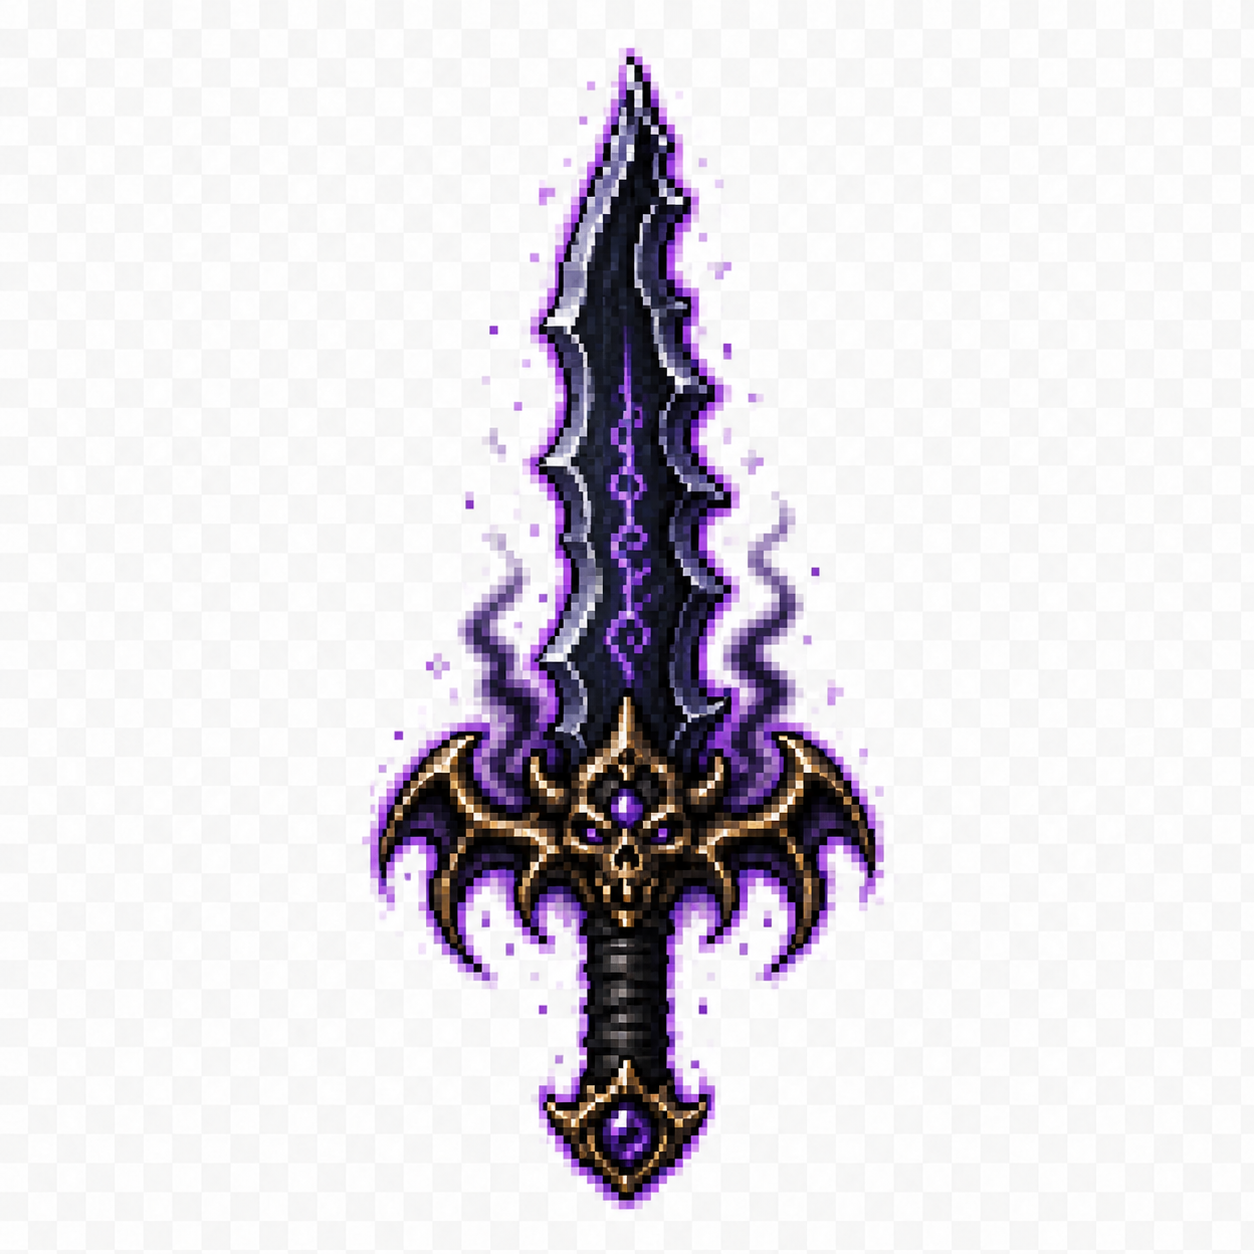
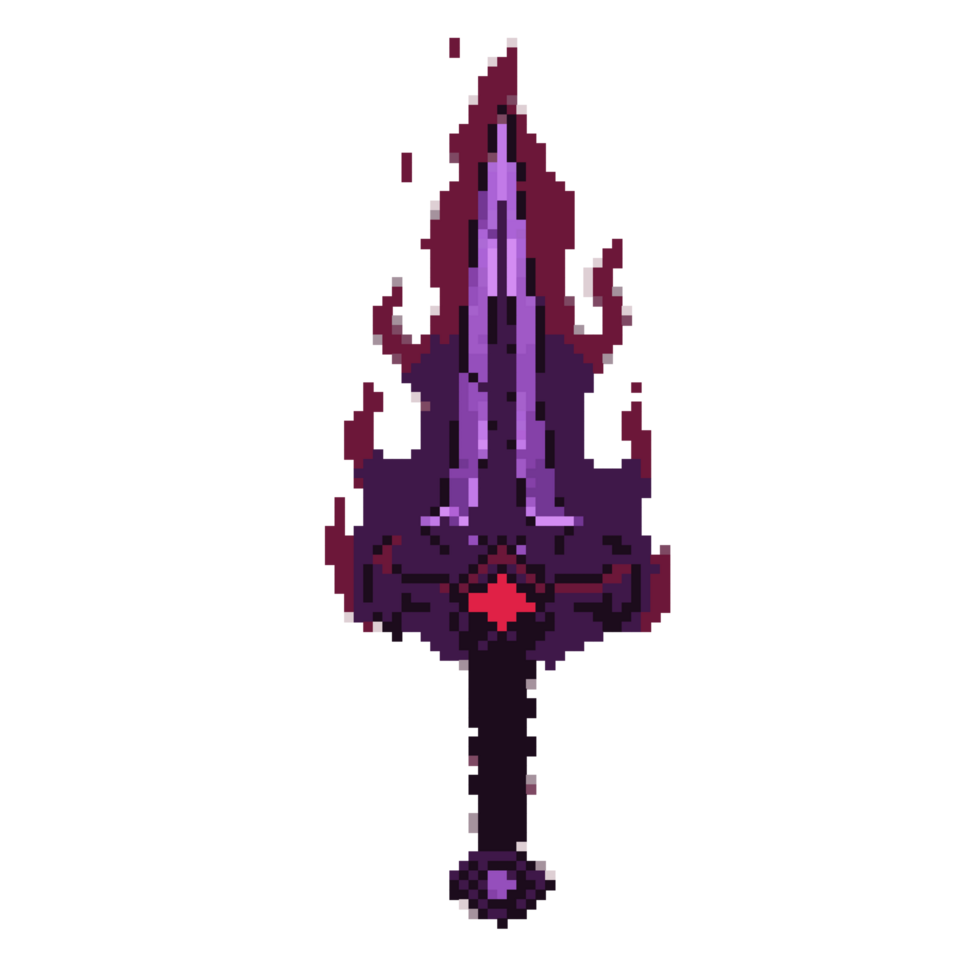
FIX: fixed the images and shop screen

Changed region(s): [[0.2755, 0.0306, 0.7041, 0.9796]]

diff --git a/core/src/main/java/com/ashenthrone/screens/ShopScreen.java b/core/src/main/java/com/ashenthrone/screens/ShopScreen.java
@@ -69,6 +69,14 @@ public class ShopScreen extends BaseScreen {
 
     private static final float BUY_W = CARD_W - 60f;
     private static final float BUY_H = 50f;
+    private static final float BUY_Y_OFFSET = 28f;
+
+    private static final float ICON_FRAME_W = 150f;
+    private static final float ICON_FRAME_H = 150f;
+    private static final float ICON_PADDING = 10f;
+    private static final float ICON_TOP_PADDING = 40f;
+    private static final float TITLE_GAP = 22f;
+    private static final float LINE_GAP = 27f;
 
     private static final float BACK_W = 160f;
     private static final float BACK_H = 44f;
@@ -252,36 +260,36 @@ public class ShopScreen extends BaseScreen {
             batch.setColor(Color.WHITE);
 
             // Icon — uses items/item_<id>.png if present, falls back to tinted block.
-            float iconW = 180f;
-            float iconH = 180f;
-            float iconX = x + (CARD_W - iconW) / 2f;
-            float iconY = y + CARD_H - iconH - 50f;
+            float iconX = x + (CARD_W - ICON_FRAME_W) / 2f;
+            float iconY = y + CARD_H - ICON_FRAME_H - ICON_TOP_PADDING;
             batch.setColor(new Color(0.25f, 0.20f, 0.15f, 1f));
-            batch.draw(pixel, iconX - 3, iconY - 3, iconW + 6, iconH + 6);
+            batch.draw(pixel, iconX - 3, iconY - 3, ICON_FRAME_W + 6, ICON_FRAME_H + 6);
             if (itemIcons[i] != null) {
                 batch.setColor(Color.WHITE);
-                batch.draw(itemIcons[i], iconX, iconY, iconW, iconH);
+                drawIconFitted(itemIcons[i], iconX, iconY, ICON_FRAME_W, ICON_FRAME_H, ICON_PADDING);
             } else {
                 batch.setColor(item.tint);
-                batch.draw(pixel, iconX, iconY, iconW, iconH);
+                batch.draw(pixel, iconX + ICON_PADDING, iconY + ICON_PADDING,
+                        ICON_FRAME_W - ICON_PADDING * 2f, ICON_FRAME_H - ICON_PADDING * 2f);
                 batch.setColor(Color.WHITE);
             }
 
             // Title + effect.
             itemFont.setColor(new Color(1f, 0.95f, 0.75f, 1f));
             layout.setText(itemFont, item.name);
-            itemFont.draw(batch, layout, x + (CARD_W - layout.width) / 2f, iconY - 20f);
+            itemFont.draw(batch, layout, x + (CARD_W - layout.width) / 2f, iconY - TITLE_GAP);
 
             bodyFont.setColor(new Color(0.85f, 0.80f, 0.70f, 1f));
             layout.setText(bodyFont, item.effect);
-            bodyFont.draw(batch, layout, x + (CARD_W - layout.width) / 2f, iconY - 50f);
+            bodyFont.draw(batch, layout, x + (CARD_W - layout.width) / 2f, iconY - TITLE_GAP - LINE_GAP);
 
             // Price line.
             bodyFont.setColor(affordable ? new Color(0.95f, 0.85f, 0.3f, 1f)
                                          : new Color(0.7f, 0.40f, 0.40f, 1f));
             String priceText = item.cost + " gold";
             layout.setText(bodyFont, priceText);
-            bodyFont.draw(batch, layout, x + (CARD_W - layout.width) / 2f, iconY - 80f);
+            bodyFont.draw(batch, layout, x + (CARD_W - layout.width) / 2f,
+                    iconY - TITLE_GAP - LINE_GAP * 2f);
 
             // Buy button.
             float[] r = buyRect(i);
@@ -333,8 +341,20 @@ public class ShopScreen extends BaseScreen {
 
     private float[] buyRect(int i) {
         float x = cardX(i) + (CARD_W - BUY_W) / 2f;
-        float y = CARDS_Y + 30f;
+        float y = CARDS_Y + BUY_Y_OFFSET;
         return new float[] { x, y, BUY_W, BUY_H };
+    }
+
+    private void drawIconFitted(Texture texture, float frameX, float frameY,
+                                float frameW, float frameH, float padding) {
+        float maxW = frameW - padding * 2f;
+        float maxH = frameH - padding * 2f;
+        float scale = Math.min(maxW / texture.getWidth(), maxH / texture.getHeight());
+        float drawW = texture.getWidth() * scale;
+        float drawH = texture.getHeight() * scale;
+        float drawX = frameX + (frameW - drawW) / 2f;
+        float drawY = frameY + (frameH - drawH) / 2f;
+        batch.draw(texture, drawX, drawY, drawW, drawH);
     }
 
     private float[] backRect() {
